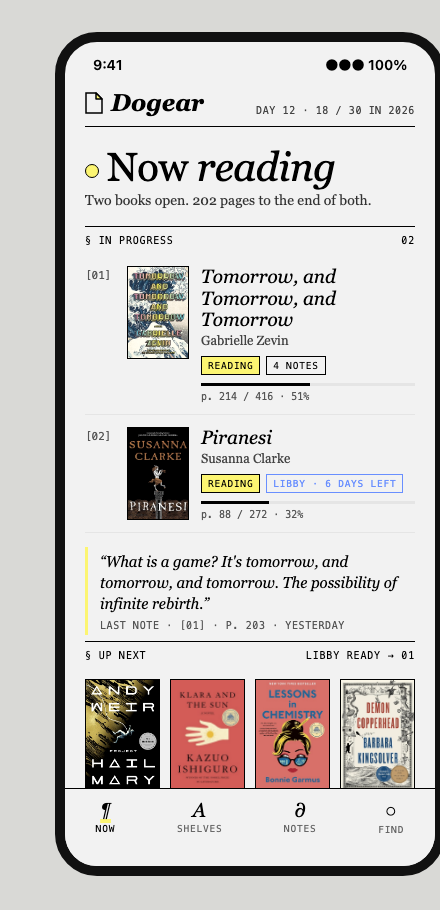
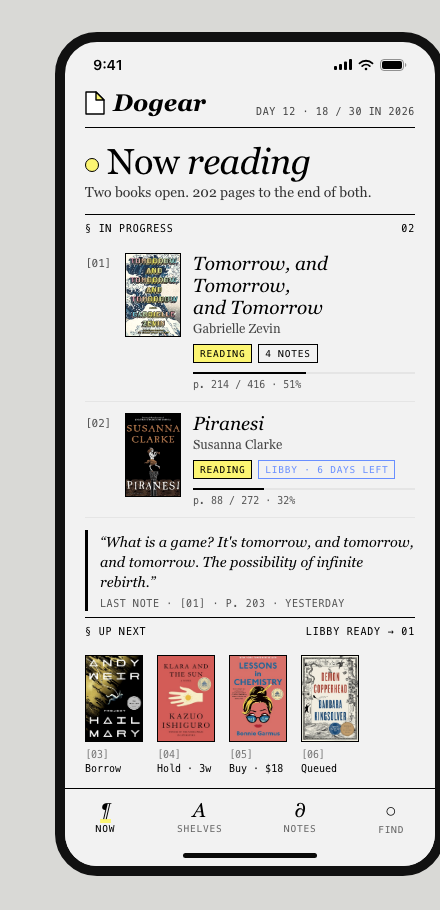
Sharpen details across all six mockups
Shared: real iOS status glyphs, home indicator, tabular numerals,
balanced title wrapping. Per mockup: content no longer hidden behind tab
bars (1, 3, 4, 5), cleaner cover labels (1, 4), SVG flame and arrow in
place of emoji (3), Libby badge no longer covers the cover (5).

diff --git a/.codeyam/design/project_mockups/01-n15-mockup.html b/.codeyam/design/project_mockups/01-n15-mockup.html
@@ -12,34 +12,36 @@ body{background:#d9d9d6;font-family:var(--sans);color:var(--ink);display:flex;ju
 .bar{display:flex;justify-content:space-between;align-items:baseline;border-bottom:1px solid var(--ink);padding:6px 0 10px}
 .word{font:italic 600 24px var(--display);display:flex;align-items:center;gap:8px}
 .meta{font:500 10px var(--mono);letter-spacing:.06em;text-transform:uppercase;color:#444}
-h1{font:400 40px/1.02 var(--display);letter-spacing:-.01em;margin:20px 0 4px}
+h1{font:400 36px/1.02 var(--display);letter-spacing:-.015em;margin:16px 0 4px}
 h1 em{font-style:italic}
 h1 .dot{display:inline-block;width:14px;height:14px;background:var(--solar);border:1px solid var(--ink);border-radius:50%;margin-right:8px;vertical-align:middle}
-.sub{font:400 14px var(--serif);color:#333;margin-bottom:18px}
+.sub{font:400 14px var(--serif);color:#333;margin-bottom:14px}
 .sec{display:flex;justify-content:space-between;font:500 10px var(--mono);letter-spacing:.08em;text-transform:uppercase;border-top:1px solid var(--ink);padding:8px 0;margin-top:6px}
-.entry{display:grid;grid-template-columns:30px 62px 1fr;gap:12px;padding:12px 0;border-bottom:1px solid var(--mist);align-items:start}
-.id{font:500 11px var(--mono);color:#555;padding-top:3px}
-.thumb{width:62px;height:93px;filter:grayscale(.35) contrast(1.05);border:1px solid var(--ink)}
+.entry{display:grid;grid-template-columns:28px 56px 1fr;gap:12px;padding:11px 0;border-bottom:1px solid var(--mist);align-items:start}
+.id{font:500 11px var(--mono);color:#555;padding-top:4px}
+.thumb{width:56px;height:84px;filter:grayscale(.35) contrast(1.05);outline:1px solid var(--ink);outline-offset:-1px}
 .t{font:italic 400 19px/1.15 var(--display)}
 .a{font:400 13px var(--serif);color:#444;margin:2px 0 8px}
 .row{display:flex;gap:6px;align-items:center;flex-wrap:wrap}
 .pill{font:500 9.5px var(--mono);letter-spacing:.08em;text-transform:uppercase;border:1px solid var(--ink);padding:3px 6px}
 .pill.live{background:var(--solar)}
 .pill.ind{border-color:var(--indigo);color:var(--indigo)}
-.prog{height:3px;background:var(--mist);margin-top:8px;position:relative}
+.prog{height:2px;background:var(--mist);margin-top:9px;position:relative}
 .prog i{position:absolute;inset:0 auto 0 0;background:var(--ink)}
 .pg{font:500 10px var(--mono);color:#555;margin-top:5px}
-.note{border-left:3px solid var(--solar);padding:4px 0 4px 12px;margin:14px 0 6px;font:italic 400 15px/1.4 var(--serif)}
+.note{border-left:3px solid var(--ink);padding:2px 0 2px 12px;margin:12px 0 4px;font:italic 400 14.5px/1.4 var(--serif)}
 .note small{display:block;font:500 10px var(--mono);font-style:normal;color:#555;margin-top:6px;text-transform:uppercase;letter-spacing:.06em}
-.mini{display:flex;gap:10px;padding:10px 0}
-.mini div{flex:1}
-.mini .thumb{width:100%;height:auto;aspect-ratio:2/3}
-.mini p{font:500 10px var(--mono);margin-top:6px}
+.mini{display:flex;gap:14px;padding:10px 0}
+.mini div{width:58px}
+.mini .thumb{width:58px;height:87px}
+.mini p{font:500 10px/1.35 var(--mono);margin-top:6px;white-space:nowrap}
+.mini p span{color:#777}
 .tabs{position:absolute;left:0;right:0;bottom:0;height:78px;background:var(--canvas);border-top:1px solid var(--ink);display:flex;justify-content:space-around;padding-top:10px}
 .tabs span{font:500 9.5px var(--mono);letter-spacing:.08em;text-transform:uppercase;text-align:center;color:#666}
 .tabs b{display:block;font:italic 400 20px var(--display);color:var(--ink);margin-bottom:2px}
 .tabs .on{color:var(--ink)}
 .tabs .on b{text-decoration:underline;text-decoration-color:var(--solar);text-decoration-thickness:4px}
+.phone{font-variant-numeric:tabular-nums;-webkit-font-smoothing:antialiased;text-rendering:optimizeLegibility}.phone::after{content:'';position:absolute;left:50%;bottom:8px;width:134px;height:5px;border-radius:3px;background:var(--home,#0a0a09);transform:translateX(-50%);z-index:20}h1,h2,.t{text-wrap:balance}
[3 lines of base64/hex data omitted]
@@ -52,8 +54,8 @@ h1 .dot{display:inline-block;width:14px;height:14px;background:var(--solar);bord
[1 lines of base64/hex data omitted]
 </style></head><body>
 <div class="phone"><div class="screen">
-  <div class="status"><span>9:41</span><span>●●● 100%</span></div>
-  <div class="bar"><span class="word"><svg width="18" height="22" viewBox="0 0 18 22"><path d="M1 1h10l6 6v14H1z" fill="none" stroke="#000" stroke-width="1.5"/><path d="M11 1v6h6z" fill="#fcf572" stroke="#000" stroke-width="1.5" stroke-linejoin="round"/></svg>Dogear</span><span class="meta">Day 12 · 18 / 30 in 2026</span></div>
+  <div class="status"><span>9:41</span><span class="sb-icons" style="display:inline-flex;gap:6px;align-items:center"><svg width="18" height="11" viewBox="0 0 18 11" fill="currentColor"><rect x="0" y="7" width="3" height="4" rx="1"/><rect x="5" y="5" width="3" height="6" rx="1"/><rect x="10" y="2.5" width="3" height="8.5" rx="1"/><rect x="15" y="0" width="3" height="11" rx="1"/></svg><svg width="16" height="12" viewBox="0 0 16 12" fill="none" stroke="currentColor" stroke-width="1.8" stroke-linecap="round"><path d="M1.5 4.3a9.5 9.5 0 0 1 13 0"/><path d="M4.2 7.1a5.6 5.6 0 0 1 7.6 0"/><circle cx="8" cy="10" r="1.3" fill="currentColor" stroke="none"/></svg><svg width="27" height="12" viewBox="0 0 27 12" fill="none"><rect x=".5" y=".5" width="23" height="11" rx="3.5" stroke="currentColor" opacity=".4"/><rect x="2" y="2" width="20" height="8" rx="2" fill="currentColor"/><path d="M25 4v4c.8-.3 1.3-1.1 1.3-2S25.8 4.3 25 4z" fill="currentColor" opacity=".4"/></svg></span></div>
+  <div class="bar"><span class="word"><svg width="20" height="24" viewBox="0 0 20 24"><path d="M1 1h10l8 8v14H1z" fill="#fff" stroke="#000" stroke-width="1.4" stroke-linejoin="round"/><path d="M11 1v8h8z" fill="#fcf572" stroke="#000" stroke-width="1.4" stroke-linejoin="round"/></svg>Dogear</span><span class="meta">Day 12 · 18 / 30 in 2026</span></div>
 
   <h1><span class="dot"></span>Now <em>reading</em></h1>
   <p class="sub">Two books open. 202 pages to the end of both.</p>
@@ -76,10 +78,10 @@ h1 .dot{display:inline-block;width:14px;height:14px;background:var(--solar);bord
 
   <div class="sec"><span>§ Up next</span><span>Libby ready → 01</span></div>
   <div class="mini">
-    <div><div class="thumb cv-hailmary"></div><p>[03] Borrow</p></div>
-    <div><div class="thumb cv-klara"></div><p>[04] Hold · 3w</p></div>
-    <div><div class="thumb cv-chemistry"></div><p>[05] Buy · $18</p></div>
-    <div><div class="thumb cv-copperhead"></div><p>[06] Queued</p></div>
+    <div><div class="thumb cv-hailmary"></div><p><span>[03]</span><br>Borrow</p></div>
+    <div><div class="thumb cv-klara"></div><p><span>[04]</span><br>Hold · 3w</p></div>
+    <div><div class="thumb cv-chemistry"></div><p><span>[05]</span><br>Buy · $18</p></div>
+    <div><div class="thumb cv-copperhead"></div><p><span>[06]</span><br>Queued</p></div>
   </div>
 </div>
 <nav class="tabs">

diff --git a/.codeyam/design/project_mockups/03-gummy-mockup.html b/.codeyam/design/project_mockups/03-gummy-mockup.html
@@ -12,23 +12,24 @@ body{background:var(--pink);font-family:var(--sans);font-feature-settings:"ss04"
 .hd{display:flex;justify-content:space-between;align-items:center;padding:6px 0 14px}
 .logo{display:flex;align-items:center;gap:8px;font-weight:700;font-size:20px;letter-spacing:-.02em}
 .coin{width:28px;height:28px;border-radius:50%;background:var(--sun);border:1.5px solid var(--ink);display:grid;place-items:center;font-size:14px}
-.streak{background:var(--lime);border:1.5px solid var(--ink);border-radius:999px;padding:5px 11px;font-weight:700;font-size:13px}
-h2{font-size:28px;font-weight:700;letter-spacing:-.03em;line-height:1.05;margin-bottom:12px}
+.streak{display:inline-flex;align-items:center;gap:5px;background:var(--lime);border:1.5px solid var(--ink);border-radius:999px;padding:4px 11px 4px 8px;font-weight:700;font-size:13px}
+h2{font-size:27px;font-weight:700;letter-spacing:-.035em;line-height:1.05;margin-bottom:12px}
 h2 span{background:var(--pink);padding:0 4px}
 .hero{border:1.5px solid var(--ink);border-radius:16px;box-shadow:4px 4px 0 var(--ink);padding:14px;display:flex;gap:14px;background:var(--sky)}
-.hero .cov{width:96px;height:144px;border-radius:8px;border:1.5px solid var(--ink);flex:none}
+.hero .cov{width:86px;height:129px;border-radius:6px;border:1.5px solid var(--ink);flex:none}
 .hero .t{font-weight:700;font-size:17px;line-height:1.15}
 .hero .a{font-size:13px;margin:3px 0 10px}
 .track{height:14px;border:1.5px solid var(--ink);border-radius:999px;background:var(--linen);overflow:hidden}
 .track i{display:block;height:100%;background:var(--sun);border-right:1.5px solid var(--ink)}
-.small{font-size:12px;font-weight:500;margin-top:6px}
-.btn{display:inline-block;margin-top:10px;background:var(--ink);color:var(--linen);border-radius:4px;padding:8px 12px;font-weight:600;font-size:13px}
-.chips{display:flex;gap:8px;margin:18px 0 12px;overflow:hidden}
+.small{display:flex;justify-content:space-between;font-size:12px;font-weight:500;margin-top:6px}
+.small b{font-weight:700}
+.btn{display:inline-flex;align-items:center;gap:6px;margin-top:10px;background:var(--ink);color:var(--linen);border-radius:4px;padding:8px 12px;font-weight:600;font-size:13px}
+.chips{display:flex;gap:8px;margin:16px 0 12px;overflow:hidden}
 .chip{border:1.5px solid var(--ink);border-radius:999px;padding:6px 12px;font-size:13px;font-weight:600;white-space:nowrap;background:var(--linen)}
 .chip.on{background:var(--ink);color:var(--linen)}
 .grid{display:grid;grid-template-columns:1fr 1fr;gap:12px}
 .card{border:1.5px solid var(--ink);border-radius:16px;overflow:hidden;background:var(--linen);box-shadow:4px 4px 0 var(--ink)}
-.card .cov{height:116px;border-bottom:1.5px solid var(--ink)}
+.card .cov{height:92px;border-bottom:1.5px solid var(--ink)}
 .card .b{padding:8px 10px 10px}
 .card .t{font-weight:700;font-size:13.5px;line-height:1.2}
 .pill{display:inline-block;margin-top:6px;border:1.5px solid var(--ink);border-radius:999px;padding:2px 8px;font-size:11px;font-weight:700}
@@ -36,6 +37,7 @@ h2 span{background:var(--pink);padding:0 4px}
 .tabs{position:absolute;left:14px;right:14px;bottom:18px;height:62px;background:var(--ink);border-radius:999px;display:flex;justify-content:space-around;align-items:center}
 .tabs span{color:var(--linen);font-size:11px;font-weight:600;opacity:.7}
 .tabs .on{background:var(--sun);color:var(--ink);opacity:1;border-radius:999px;padding:8px 16px;border:1.5px solid var(--ink)}
+.phone{font-variant-numeric:tabular-nums;-webkit-font-smoothing:antialiased;text-rendering:optimizeLegibility}.phone::after{content:'';position:absolute;left:50%;bottom:8px;width:134px;height:5px;border-radius:3px;background:var(--home,#0a0a09);transform:translateX(-50%);z-index:20}h1,h2,.t{text-wrap:balance}
[3 lines of base64/hex data omitted]
@@ -48,8 +50,8 @@ h2 span{background:var(--pink);padding:0 4px}
[1 lines of base64/hex data omitted]
 </style></head><body>
 <div class="phone"><div class="screen">
-<div class="status"><span>9:41</span><span>●●● 100%</span></div>
-<div class="hd"><span class="logo"><span class="coin"><svg width="14" height="16" viewBox="0 0 14 16"><path d="M1 1h8l4 4v10H1z" fill="#fff" stroke="#000" stroke-width="1.5"/><path d="M9 1v4h4z" fill="#ff90e8" stroke="#000" stroke-width="1.5" stroke-linejoin="round"/></svg></span>Dogear</span><span class="streak">🔥 12-day streak</span></div>
+<div class="status"><span>9:41</span><span class="sb-icons" style="display:inline-flex;gap:6px;align-items:center"><svg width="18" height="11" viewBox="0 0 18 11" fill="currentColor"><rect x="0" y="7" width="3" height="4" rx="1"/><rect x="5" y="5" width="3" height="6" rx="1"/><rect x="10" y="2.5" width="3" height="8.5" rx="1"/><rect x="15" y="0" width="3" height="11" rx="1"/></svg><svg width="16" height="12" viewBox="0 0 16 12" fill="none" stroke="currentColor" stroke-width="1.8" stroke-linecap="round"><path d="M1.5 4.3a9.5 9.5 0 0 1 13 0"/><path d="M4.2 7.1a5.6 5.6 0 0 1 7.6 0"/><circle cx="8" cy="10" r="1.3" fill="currentColor" stroke="none"/></svg><svg width="27" height="12" viewBox="0 0 27 12" fill="none"><rect x=".5" y=".5" width="23" height="11" rx="3.5" stroke="currentColor" opacity=".4"/><rect x="2" y="2" width="20" height="8" rx="2" fill="currentColor"/><path d="M25 4v4c.8-.3 1.3-1.1 1.3-2S25.8 4.3 25 4z" fill="currentColor" opacity=".4"/></svg></span></div>
+<div class="hd"><span class="logo"><span class="coin"><svg width="14" height="16" viewBox="0 0 14 16"><path d="M1 1h8l4 4v10H1z" fill="#fff" stroke="#000" stroke-width="1.5"/><path d="M9 1v4h4z" fill="#ff90e8" stroke="#000" stroke-width="1.5" stroke-linejoin="round"/></svg></span>Dogear</span><span class="streak"><svg width="12" height="15" viewBox="0 0 12 15"><path d="M6 1c.5 2.4 4.6 4.3 4.6 8.2A4.6 4.6 0 0 1 6 14a4.6 4.6 0 0 1-4.6-4.8c0-2 1.2-3.2 2-3.9.2 1.4.8 2.2 1.6 2.4C4.6 5.6 5.2 3 6 1z" fill="#fc6c34" stroke="#000" stroke-width="1.3" stroke-linejoin="round"/></svg>12-day streak</span></div>
 
 <h2>You're <span>halfway</span> through Zevin.</h2>
 <div class="hero">
@@ -57,8 +59,8 @@ h2 span{background:var(--pink);padding:0 4px}
   <div style="flex:1">
     <p class="t">Tomorrow, and Tomorrow, and Tomorrow</p><p class="a">Gabrielle Zevin</p>
     <div class="track"><i style="width:51%"></i></div>
-    <p class="small">p. 214 of 416 · ~3h left</p>
-    <span class="btn">Keep reading →</span>
+    <p class="small"><span>p. 214 of 416</span><b>51%</b></p>
+    <span class="btn">Keep reading<svg width="12" height="10" viewBox="0 0 12 10" fill="none" stroke="#fff" stroke-width="1.8" stroke-linecap="round" stroke-linejoin="round"><path d="M1 5h10M7 1l4 4-4 4"/></svg></span>
   </div>
 </div>
 

diff --git a/.codeyam/design/project_mockups/05-neo-brutalist-mockup.html b/.codeyam/design/project_mockups/05-neo-brutalist-mockup.html
@@ -10,10 +10,10 @@ body{background:var(--yellow);font-family:var(--sans);color:var(--t1);display:fl
 .phone{width:390px;height:844px;background:var(--base);border-radius:44px;border:3px solid var(--border);box-shadow:8px 8px 0 var(--border);overflow:hidden;position:relative}
 .screen{padding:0 16px}
 .status{display:flex;justify-content:space-between;font-weight:700;font-size:14px;padding:16px 10px 6px}
-h1{font-size:44px;font-weight:800;letter-spacing:-.045em;line-height:.92;margin:10px 0 4px}
+h1{font-size:40px;font-weight:800;letter-spacing:-.045em;line-height:.92;margin:8px 0 4px}
 .sub{font:400 12px var(--mono);color:var(--t2);margin-bottom:12px}
 .now{display:flex;gap:12px;background:var(--surface);border:2px solid var(--border);border-radius:14px;box-shadow:4px 4px 0 var(--pink);padding:12px}
-.now .c{width:84px;height:126px;border:2px solid var(--border);border-radius:6px;flex:none}
+.now .c{width:74px;height:111px;border:2px solid var(--border);border-radius:6px;flex:none}
 .tag{display:inline-block;font:700 10px var(--mono);text-transform:uppercase;background:var(--pink);border:2px solid var(--border);border-radius:6px;padding:2px 6px}
 .now .t{font-weight:800;font-size:18px;line-height:1.05;letter-spacing:-.02em;margin:6px 0 2px}
 .now .a{font-size:12.5px;color:var(--t2)}
@@ -24,24 +24,26 @@ h1{font-size:44px;font-weight:800;letter-spacing:-.045em;line-height:.92;margin:
 .shlab{display:flex;justify-content:space-between;align-items:baseline;margin:18px 0 6px}
 .shlab b{font-size:16px;font-weight:800;letter-spacing:-.02em}
 .shlab span{font:400 11px var(--mono);color:var(--t2)}
-.shelf{display:flex;align-items:flex-end;gap:3px;height:150px;padding:0 6px;border-bottom:8px solid var(--t1);position:relative}
+.shelf{display:flex;align-items:flex-end;gap:3px;height:140px;padding:0 6px;border-bottom:8px solid var(--t1);position:relative}
 .sp{writing-mode:vertical-rl;transform:rotate(180deg);border:2px solid var(--border);border-radius:3px;font-weight:800;font-size:12px;letter-spacing:.01em;padding:8px 3px;display:flex;justify-content:space-between;align-items:center}
 .sp small{font:700 8.5px var(--mono);text-transform:uppercase;opacity:.75}
 .lean{transform:rotate(180deg) rotate(-8deg);transform-origin:bottom left;margin-left:12px}
-.pulled{margin-left:auto;transform:translateY(-8px)}
+.pulled{position:relative;margin-left:auto;transform:translateY(-6px)}
 .pulled .c{width:70px;height:105px;border:2px solid var(--border);border-radius:4px;box-shadow:4px 4px 0 var(--teal)}
-.ready{position:absolute;right:2px;top:-6px;font:700 9px var(--mono);background:var(--teal);color:#fff;border:2px solid var(--border);border-radius:6px;padding:2px 5px;text-transform:uppercase}
-.get{margin-top:14px;background:var(--surface);border:2px solid var(--border);border-radius:14px;padding:12px;box-shadow:4px 4px 0 var(--border)}
+.ready{position:absolute;left:50%;transform:translateX(-50%);top:-24px;white-space:nowrap;font:700 9px var(--mono);background:var(--teal);color:#fff;border:2px solid var(--border);border-radius:6px;padding:2px 5px;text-transform:uppercase}
+.get{margin-top:12px;background:var(--surface);border:2px solid var(--border);border-radius:14px;padding:12px;box-shadow:4px 4px 0 var(--border)}
 .get p{font-weight:700;font-size:14px;margin-bottom:8px}
 .get p span{font:400 11px var(--mono);color:var(--t2);font-weight:400}
 .btns{display:flex;gap:6px}
 .btn{flex:1;text-align:center;border:2px solid var(--border);border-radius:8px;padding:8px 4px;font-weight:700;font-size:12px;box-shadow:2px 2px 0 var(--border)}
 .b1{background:var(--teal-l)}.b2{background:var(--pink-l)}.b3{background:var(--muted)}
 .btn small{display:block;font:400 10px var(--mono);margin-top:1px}
-.fin{display:flex;gap:10px;margin-top:16px}.fin div{flex:1}.fin .c{aspect-ratio:2/3;border:2px solid var(--border);border-radius:4px}.fin p{font:700 11px var(--mono);margin-top:4px}
+.phone{--home:#f5f0e8}
+.fin{display:flex;gap:14px;margin-top:8px}.fin>div{width:58px}.fin .c{width:58px;height:87px;border:2px solid var(--border);border-radius:4px}.fin p{font:700 10px var(--mono);margin-top:4px;letter-spacing:-.02em}
 .tabs{position:absolute;left:0;right:0;bottom:0;height:78px;background:var(--inverse);display:flex;justify-content:space-around;padding-top:14px}
 .tabs span{color:#aaa;font-weight:700;font-size:12px}
 .tabs .on{color:var(--inverse);background:var(--pink);border:2px solid var(--base);border-radius:8px;padding:4px 12px;height:30px}
+.phone{font-variant-numeric:tabular-nums;-webkit-font-smoothing:antialiased;text-rendering:optimizeLegibility}.phone::after{content:'';position:absolute;left:50%;bottom:8px;width:134px;height:5px;border-radius:3px;background:var(--home,#0a0a09);transform:translateX(-50%);z-index:20}h1,h2,.t{text-wrap:balance}
[3 lines of base64/hex data omitted]
@@ -54,7 +56,7 @@ h1{font-size:44px;font-weight:800;letter-spacing:-.045em;line-height:.92;margin:
[1 lines of base64/hex data omitted]
 </style></head><body>
 <div class="phone"><div class="screen">
-<div class="status"><span>9:41</span><span>▮▮▮ 100%</span></div>
+<div class="status"><span>9:41</span><span class="sb-icons" style="display:inline-flex;gap:6px;align-items:center"><svg width="18" height="11" viewBox="0 0 18 11" fill="currentColor"><rect x="0" y="7" width="3" height="4" rx="1"/><rect x="5" y="5" width="3" height="6" rx="1"/><rect x="10" y="2.5" width="3" height="8.5" rx="1"/><rect x="15" y="0" width="3" height="11" rx="1"/></svg><svg width="16" height="12" viewBox="0 0 16 12" fill="none" stroke="currentColor" stroke-width="1.8" stroke-linecap="round"><path d="M1.5 4.3a9.5 9.5 0 0 1 13 0"/><path d="M4.2 7.1a5.6 5.6 0 0 1 7.6 0"/><circle cx="8" cy="10" r="1.3" fill="currentColor" stroke="none"/></svg><svg width="27" height="12" viewBox="0 0 27 12" fill="none"><rect x=".5" y=".5" width="23" height="11" rx="3.5" stroke="currentColor" opacity=".4"/><rect x="2" y="2" width="20" height="8" rx="2" fill="currentColor"/><path d="M25 4v4c.8-.3 1.3-1.1 1.3-2S25.8 4.3 25 4z" fill="currentColor" opacity=".4"/></svg></span></div>
 <div style="display:flex;align-items:center;gap:7px;margin-top:6px;font-weight:800;font-size:15px;letter-spacing:-.02em"><svg width="16" height="19" viewBox="0 0 16 19"><path d="M1.5 1.5h8l5 5v11h-13z" fill="#fff" stroke="#0d0d0d" stroke-width="2"/><path d="M9.5 1.5v5h5z" fill="#ff90e8" stroke="#0d0d0d" stroke-width="2" stroke-linejoin="round"/></svg>DOGEAR</div>
 <h1>The shelf.</h1>
 <p class="sub">18 read · 2 open · 4 waiting · 12-day streak</p>

diff --git a/.codeyam/design/project_mockups/04-space-odyssey-mockup.html b/.codeyam/design/project_mockups/04-space-odyssey-mockup.html
@@ -15,26 +15,28 @@ background:radial-gradient(120% 60% at 50% 28%,rgba(255,90,31,.42) 0%,rgba(199,4
 .brand{display:flex;align-items:center;gap:8px;font-weight:600;font-size:17px;letter-spacing:-.02em}
 .brand i{width:8px;height:8px;border-radius:50%;background:var(--orange);box-shadow:0 0 12px var(--orange)}
 .pillo{border:1px solid rgba(245,240,230,.2);border-radius:999px;padding:6px 12px;font:500 11px var(--mono);color:var(--ink)}
-.stage{position:relative;height:330px;display:grid;place-items:center;margin-top:6px}
-.ring{position:absolute;inset:0;margin:auto;width:300px;height:300px}
-.cover{width:156px;height:234px;border-radius:6px;box-shadow:0 30px 60px rgba(0,0,0,.6),0 0 80px rgba(255,90,31,.35);position:relative}
+.stage{position:relative;height:284px;display:grid;place-items:center;margin-top:4px}
+.ring{position:absolute;inset:0;margin:auto;width:268px;height:268px}
+.cover{width:136px;height:204px;border-radius:6px;box-shadow:0 30px 60px rgba(0,0,0,.6),0 0 80px rgba(255,90,31,.35);position:relative}
 .pct{position:absolute;top:0;right:0;text-align:right}
 .pct b{display:block;font:600 28px var(--display);letter-spacing:-.04em}
-h1{font-weight:600;font-size:30px;line-height:1.05;letter-spacing:-.035em;text-align:center;margin:4px 0 6px}
+h1{font-weight:600;font-size:25px;line-height:1.08;letter-spacing:-.03em;text-align:center;margin:6px 0 4px}
 .au{text-align:center;color:var(--dim);font-size:15px}
-.goal{margin:18px 0 0;background:rgba(17,16,26,.75);border:1px solid rgba(245,240,230,.08);border-radius:24px;padding:16px;display:flex;align-items:center;gap:14px;backdrop-filter:blur(8px)}
+.goal{margin:16px 0 0;background:rgba(17,16,26,.75);border:1px solid rgba(245,240,230,.08);border-radius:24px;padding:16px;display:flex;align-items:center;gap:14px;backdrop-filter:blur(8px)}
 .goal p{font-size:15px;line-height:1.3;flex:1}
 .goal p em{font-style:normal;color:var(--orange-soft)}
 .play{width:52px;height:52px;border-radius:50%;background:var(--orange);display:grid;place-items:center;box-shadow:0 0 30px rgba(255,90,31,.6);flex:none}
-.queue{display:flex;gap:10px;margin-top:18px;align-items:flex-end}
-.q{flex:1}
+.queue{display:flex;gap:12px;margin-top:16px;align-items:flex-end}
+.q{width:72px}
 .q .c{aspect-ratio:2/3;border-radius:4px;opacity:.9}
 .q p{font:500 9.5px var(--mono);color:var(--dim);margin-top:6px;letter-spacing:.06em;text-transform:uppercase}
 .q p.ok{color:var(--green)}
-.tabs{position:absolute;bottom:0;left:0;right:0;height:80px;background:linear-gradient(transparent,var(--bg) 40%);display:flex;justify-content:space-around;align-items:center;padding-top:10px}
+.phone{--home:#f5f0e6}
+.tabs{position:absolute;bottom:0;left:0;right:0;height:78px;background:var(--bg);border-top:1px solid rgba(245,240,230,.06);display:flex;justify-content:space-around;align-items:center;padding-top:10px}
 .tabs span{font:500 10px var(--mono);letter-spacing:.12em;color:var(--mute);text-transform:uppercase}
 .tabs .on{color:var(--ink)}
 .tabs .on:before{content:'';display:block;width:4px;height:4px;border-radius:50%;background:var(--orange);margin:0 auto 6px}
+.phone{font-variant-numeric:tabular-nums;-webkit-font-smoothing:antialiased;text-rendering:optimizeLegibility}.phone::after{content:'';position:absolute;left:50%;bottom:8px;width:134px;height:5px;border-radius:3px;background:var(--home,#0a0a09);transform:translateX(-50%);z-index:20}h1,h2,.t{text-wrap:balance}
[3 lines of base64/hex data omitted]
@@ -47,7 +49,7 @@ h1{font-weight:600;font-size:30px;line-height:1.05;letter-spacing:-.035em;text-a
[1 lines of base64/hex data omitted]
 </style></head><body>
 <div class="phone"><div class="screen">
-<div class="status"><span>21:14</span><span>●●● 82%</span></div>
+<div class="status"><span>21:14</span><span class="sb-icons" style="display:inline-flex;gap:6px;align-items:center"><svg width="18" height="11" viewBox="0 0 18 11" fill="currentColor"><rect x="0" y="7" width="3" height="4" rx="1"/><rect x="5" y="5" width="3" height="6" rx="1"/><rect x="10" y="2.5" width="3" height="8.5" rx="1"/><rect x="15" y="0" width="3" height="11" rx="1"/></svg><svg width="16" height="12" viewBox="0 0 16 12" fill="none" stroke="currentColor" stroke-width="1.8" stroke-linecap="round"><path d="M1.5 4.3a9.5 9.5 0 0 1 13 0"/><path d="M4.2 7.1a5.6 5.6 0 0 1 7.6 0"/><circle cx="8" cy="10" r="1.3" fill="currentColor" stroke="none"/></svg><svg width="27" height="12" viewBox="0 0 27 12" fill="none"><rect x=".5" y=".5" width="23" height="11" rx="3.5" stroke="currentColor" opacity=".4"/><rect x="2" y="2" width="16" height="8" rx="2" fill="currentColor"/><path d="M25 4v4c.8-.3 1.3-1.1 1.3-2S25.8 4.3 25 4z" fill="currentColor" opacity=".4"/></svg></span></div>
 <div class="top"><span class="brand"><i></i>tomo</span><span class="pillo">12 nights in a row</span></div>
 
 <div class="stage">
@@ -68,10 +70,10 @@ h1{font-weight:600;font-size:30px;line-height:1.05;letter-spacing:-.035em;text-a
 </div>
 
 <div class="queue">
-  <div class="q"><div class="c cv-piranesi"></div><p>Reading · 32%</p></div>
-  <div class="q"><div class="c cv-hailmary"></div><p class="ok">● Libby ready</p></div>
-  <div class="q"><div class="c cv-klara"></div><p>Hold · 3 wk</p></div>
-  <div class="q"><div class="c cv-chemistry"></div><p>Buy · $18.99</p></div>
+  <div class="q"><div class="c cv-piranesi"></div><p>32% read</p></div>
+  <div class="q"><div class="c cv-hailmary"></div><p class="ok">● Libby</p></div>
+  <div class="q"><div class="c cv-klara"></div><p>Hold 3 wk</p></div>
+  <div class="q"><div class="c cv-chemistry"></div><p>Buy $18.99</p></div>
 </div>
 </div>
 <nav class="tabs"><span class="on">Tonight</span><span>Shelves</span><span>Notes</span><span>Find</span></nav>

diff --git a/.codeyam/design/project_mockups/02-minimalistic-mockup.html b/.codeyam/design/project_mockups/02-minimalistic-mockup.html
@@ -28,6 +28,7 @@ body{background:#e4e3dd;font-family:var(--sans);color:var(--ink);display:flex;ju
 .next div{width:38px;height:57px;border-radius:2px;opacity:.92}
 .tabs{position:absolute;left:32px;right:32px;bottom:36px;display:flex;gap:28px;font:400 12px var(--mono);color:var(--faint)}
 .tabs .on{color:var(--ink)}
+.phone{font-variant-numeric:tabular-nums;-webkit-font-smoothing:antialiased;text-rendering:optimizeLegibility}.phone::after{content:'';position:absolute;left:50%;bottom:8px;width:134px;height:5px;border-radius:3px;background:var(--home,#0a0a09);transform:translateX(-50%);z-index:20}h1,h2,.t{text-wrap:balance}
[3 lines of base64/hex data omitted]
@@ -40,7 +41,7 @@ body{background:#e4e3dd;font-family:var(--sans);color:var(--ink);display:flex;ju
[1 lines of base64/hex data omitted]
 </style></head><body>
 <div class="phone"><div class="screen">
-  <div class="status"><span>9:41</span><span>▮▮▮ 100%</span></div>
+  <div class="status"><span>9:41</span><span class="sb-icons" style="display:inline-flex;gap:6px;align-items:center"><svg width="18" height="11" viewBox="0 0 18 11" fill="currentColor"><rect x="0" y="7" width="3" height="4" rx="1"/><rect x="5" y="5" width="3" height="6" rx="1"/><rect x="10" y="2.5" width="3" height="8.5" rx="1"/><rect x="15" y="0" width="3" height="11" rx="1"/></svg><svg width="16" height="12" viewBox="0 0 16 12" fill="none" stroke="currentColor" stroke-width="1.8" stroke-linecap="round"><path d="M1.5 4.3a9.5 9.5 0 0 1 13 0"/><path d="M4.2 7.1a5.6 5.6 0 0 1 7.6 0"/><circle cx="8" cy="10" r="1.3" fill="currentColor" stroke="none"/></svg><svg width="27" height="12" viewBox="0 0 27 12" fill="none"><rect x=".5" y=".5" width="23" height="11" rx="3.5" stroke="currentColor" opacity=".4"/><rect x="2" y="2" width="20" height="8" rx="2" fill="currentColor"/><path d="M25 4v4c.8-.3 1.3-1.1 1.3-2S25.8 4.3 25 4z" fill="currentColor" opacity=".4"/></svg></span></div>
   <div class="top"><span class="mark">tomo<span>.</span></span><span class="mono">day 12</span></div>
 
   <div class="focus">

diff --git a/.codeyam/design/project_mockups/06-offcatalog-mockup.html b/.codeyam/design/project_mockups/06-offcatalog-mockup.html
@@ -43,6 +43,7 @@ body{background:#cfc8bb;font-family:var(--sans);color:var(--ink);display:flex;ju
 .badge.buy{color:var(--ink-2)}.badge.buy:before{background:var(--amber)}
 .tabs{position:absolute;left:22px;right:22px;bottom:16px;height:58px;border-radius:29px;background:rgba(251,247,240,.86);backdrop-filter:blur(14px);box-shadow:0 8px 24px rgba(27,26,23,.14);display:flex;justify-content:space-around;align-items:center}
 .tabs svg{display:block}
+.phone{font-variant-numeric:tabular-nums;-webkit-font-smoothing:antialiased;text-rendering:optimizeLegibility}.phone::after{content:'';position:absolute;left:50%;bottom:8px;width:134px;height:5px;border-radius:3px;background:var(--home,#0a0a09);transform:translateX(-50%);z-index:20}h1,h2,.t{text-wrap:balance}
[3 lines of base64/hex data omitted]
@@ -56,7 +57,7 @@ body{background:#cfc8bb;font-family:var(--sans);color:var(--ink);display:flex;ju
 </style></head><body>
 <div class="phone">
   <div class="wash"></div>
-  <div class="status"><span>9:41</span><span>●●● 100%</span></div>
+  <div class="status"><span>9:41</span><span class="sb-icons" style="display:inline-flex;gap:6px;align-items:center"><svg width="18" height="11" viewBox="0 0 18 11" fill="currentColor"><rect x="0" y="7" width="3" height="4" rx="1"/><rect x="5" y="5" width="3" height="6" rx="1"/><rect x="10" y="2.5" width="3" height="8.5" rx="1"/><rect x="15" y="0" width="3" height="11" rx="1"/></svg><svg width="16" height="12" viewBox="0 0 16 12" fill="none" stroke="currentColor" stroke-width="1.8" stroke-linecap="round"><path d="M1.5 4.3a9.5 9.5 0 0 1 13 0"/><path d="M4.2 7.1a5.6 5.6 0 0 1 7.6 0"/><circle cx="8" cy="10" r="1.3" fill="currentColor" stroke="none"/></svg><svg width="27" height="12" viewBox="0 0 27 12" fill="none"><rect x=".5" y=".5" width="23" height="11" rx="3.5" stroke="currentColor" opacity=".4"/><rect x="2" y="2" width="20" height="8" rx="2" fill="currentColor"/><path d="M25 4v4c.8-.3 1.3-1.1 1.3-2S25.8 4.3 25 4z" fill="currentColor" opacity=".4"/></svg></span></div>
   <div class="greet"><span style="font:600 19px var(--serif);color:#fff;letter-spacing:-.01em">tomo</span><span>Good evening · <b>day 12</b> · 18 of 30</span></div>
   <div class="deck">
     <div class="card back2 cv-hailmary"></div>
